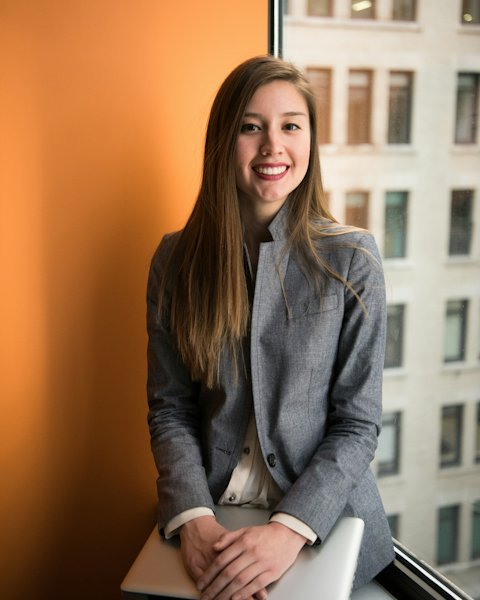
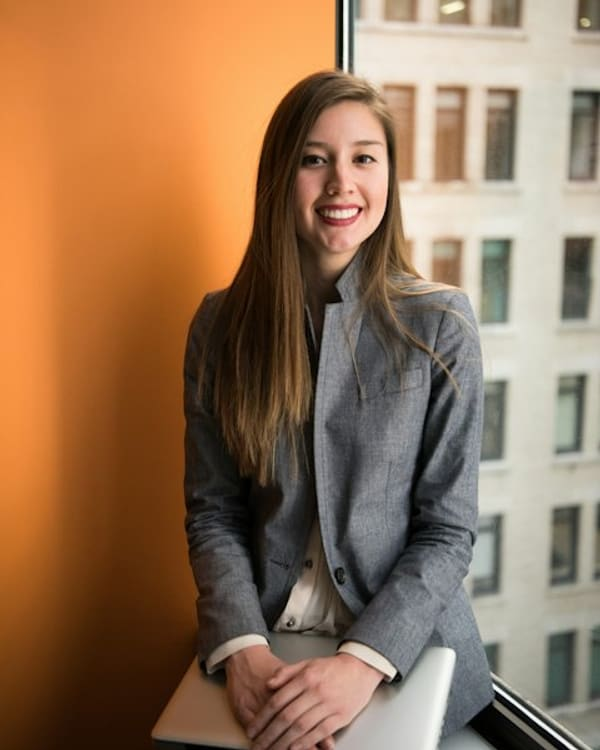
Impor 100 gambar katalog asli; tiap bagian pakai resep berbeda
Zip img/ + uploads/ dari hosting dicocokkan dengan ekspor katalog:
seluruh 100 gambar resep ketemu, termasuk keempat belas terlaris.
Diimpor ke landing/img pada 600x750 q78 mozjpeg, total 4,48 MB
(rata-rata 46 KB). Lima puluh file lain di zip — 32 avatar/tes dari
uploads dan 18 stok lama dari img — sengaja tidak diimpor, jadi tidak
ada foto profil member yang masuk repo.

RECIPES kini memuat seluruh katalog (100 entri) dengan path gambar
asli, ditambah indeks byId. Tiap bagian memakai resep yang berbeda,
39 resep dipakai tanpa satu pun berulang antar bagian:

  galeri    14 resep terlaris, semua kini berfoto
  demo      5 resep lain
  audiens   8 persona, Pasangan dan Ibu rumah tangga kembali karena
            kategori Couple dan Keluarga sudah ada gambarnya
  dinding   9 resep lain
  kolase    3 resep lain

Foto headshot latar gelap dari zip lama akhirnya cocok dengan
"Potret Studio Sinematik Gelap" (dibandingkan visual dengan tiga
kandidat lain). Foto itu dipakai untuk alur demo rb2 -> ra2 dan
ditambahkan sebagai pasangan keenam di hero.

Marquee memakai judul resep asli. Lima belas gambar stok seed lama
yang tidak lagi dirujuk dihapus.

Foto kartu testimoni tetap memakai gambar stok: memasangkan wajah
orang sungguhan dengan nama karangan tidak pantas, bahkan di mockup.

Claude-Session: https://claude.ai/code/session_016iduSmscDGBsGnSTrf83fx

diff --git a/landing/mockup.html b/landing/mockup.html
@@ -598,22 +598,22 @@ footer{background:var(--ink);color:#A9B4CF;font-size:12px;padding:22px 20px 28px
         <span class="island" aria-hidden="true"><i class="cam"></i></span>
         <div class="scene on" data-scene="0">
           <div class="app-h">Paling laris</div>
-          <div class="rcard active" style="position:relative"><img src="img/ra3.jpg" alt=""><div>Potret Sinematik Motion Blur Kota<small><b>★</b> Jalan-jalan</small></div><span class="cp">Salin</span><span class="tap" style="right:6px;top:6px"></span></div>
-          <div class="rcard"><img src="img/ra6.jpg" alt=""><div>Potret Fisheye Sudut Atas<small><b>★</b> Profesional</small></div><span class="cp">Salin</span></div>
-          <div class="rcard"><img src="img/ra5.jpg" alt=""><div>Mini Chibi Gemas di Telapak Tangan<small><b>★</b> Entertainment</small></div><span class="cp">Salin</span></div>
-          <div class="rcard"><img src="img/ra4.jpg" alt=""><div>Potret Gaya 1985<small><b>★</b> Foto Jadul</small></div><span class="cp">Salin</span></div>
-          <div class="rcard"><img src="img/ra1.jpg" alt=""><div>Foto Scrapbook Chibi 3D Gemas<small><b>★</b> Entertainment</small></div><span class="cp">Salin</span></div>
+          <div class="rcard active" style="position:relative"><img src="img/9e64523b9aa07e1a.jpg" alt=""><div>Potret Studio Sinematik Gelap<small>Profesional</small></div><span class="cp">Salin</span><span class="tap" style="right:6px;top:6px"></span></div>
+          <div class="rcard"><img src="img/8c3b666b3d257c3d.jpg" alt=""><div>Foto Pasangan Sinematik Film 35mm<small>Couple</small></div><span class="cp">Salin</span></div>
+          <div class="rcard"><img src="img/p25.jpg" alt=""><div>Doodle Sketsa Lucu<small>Kartun & Ilustrasi</small></div><span class="cp">Salin</span></div>
+          <div class="rcard"><img src="img/df1e914edf146ea8.jpg" alt=""><div>Potret Retro Jakarta Era 80-an<small>Foto Jadul</small></div><span class="cp">Salin</span></div>
+          <div class="rcard"><img src="img/p45.jpg" alt=""><div>Senja di Peron Stasiun<small>Jalan-jalan</small></div><span class="cp">Salin</span></div>
           <span class="copied"><svg class="ico" style="width:13px;height:13px"><use href="#i-check"/></svg>Resep tersalin</span>
         </div>
         <div class="scene" data-scene="1">
           <div class="chat-top"><i></i>Gemini / ChatGPT</div>
-          <div class="bub me"><img src="img/rb3.jpg" alt=""></div>
-          <div class="bub me mono">Turn my uploaded photo into a cinematic city street portrait at golden hour with motion-blurred traffic. Keep my face exactly the same…</div>
+          <div class="bub me"><img src="img/rb2.jpg" alt=""></div>
+          <div class="bub me mono">Turn my uploaded photo into a dark cinematic studio portrait with one dramatic key light. Keep my face exactly the same…</div>
           <div class="bub ai"><span class="typing"><i></i><i></i><i></i></span></div>
         </div>
         <div class="scene" data-scene="2">
           <div class="chat-top"><i></i>Gemini / ChatGPT</div>
-          <div class="result"><img src="img/ra3.jpg" alt="Contoh hasil potret sinematik motion blur kota"><span class="spark"></span></div>
+          <div class="result"><img src="img/ra2.jpg" alt="Contoh hasil potret studio sinematik gelap"><span class="spark"></span></div>
           <div class="saved"><span>Simpan</span><span>Bagikan</span></div>
         </div>
       </div>
@@ -801,13 +801,12 @@ footer{background:var(--ink);color:#A9B4CF;font-size:12px;padding:22px 20px 28px
     <span class="glass g4" aria-hidden="true"><svg viewBox="0 0 24 24"><use href="#g-photo-plus"/></svg></span>
     <span class="eyebrow" style="color:var(--sun)">Tunggu apa lagi</span>
     <h2>Fotomu berikutnya bisa jadi foto terbaikmu.</h2>
-    <div class="collage"><img src="img/ra4.jpg" alt="Hasil resep: potret film retro"><img src="img/ra6.jpg" alt="Hasil resep: potret streetwear latar merah"><img src="img/ra3.jpg" alt="Hasil resep: jalanan kota golden hour"></div>
+    <div class="collage"><img src="img/1743d9195b3e3bad.jpg" alt="Hasil resep Potret Sinematik Noir Korek Api"><img src="img/50ab0fd2a6efb6dd.jpg" alt="Hasil resep Foto Anggun di Akuarium Bawah Laut"><img src="img/p58.jpg" alt="Hasil resep Prajurit Steampunk Selfie"></div>
     <button class="btn btn-main btn-block" data-buy="premium">Ambil Premium Sekarang</button>
     <p class="honest"><svg class="ico"><use href="#i-info"/></svg>Resep prompt siap tempel untuk Gemini/ChatGPT</p>
   </section>
   <footer>© 2026 ResepFoto<br>ResepFoto dirancang untuk melengkapi workflow kreatif bersama berbagai platform AI populer, termasuk Gemini™ dan ChatGPT™. Seluruh merek dagang merupakan milik pemiliknya masing-masing.</footer>
 </div>
-
 
 <!-- checkout -->
 <div class="scrim" id="scrim" hidden></div>
@@ -876,24 +875,123 @@ const EXAMPLES = [
   {label: "Fisheye", title: "Potret Fisheye Sudut Atas", sub: "Foto di gunung → potret studio fisheye", before: "img/rb6.jpg", after: "img/ra6.jpg"},
   {label: "Mini Chibi", title: "Mini Chibi Gemas di Telapak Tangan", sub: "Selfie di kamar → figur mini di telapak tangan", before: "img/rb5.jpg", after: "img/ra5.jpg"},
   {label: "Gaya 1985", title: "Potret Gaya 1985", sub: "Selfie di meja kerja → potret film jadul", before: "img/rb4.jpg", after: "img/ra4.jpg"},
-  {label: "Scrapbook", title: "Foto Scrapbook Chibi 3D Gemas", sub: "Foto berdiri → satu lembar scrapbook chibi", before: "img/rb1.jpg", after: "img/ra1.jpg"}
+  {label: "Scrapbook", title: "Foto Scrapbook Chibi 3D Gemas", sub: "Foto berdiri → satu lembar scrapbook chibi", before: "img/rb1.jpg", after: "img/ra1.jpg"},
+  {label: "Studio Gelap", title: "Potret Studio Sinematik Gelap", sub: "Foto duduk biasa → potret studio dramatis", before: "img/rb2.jpg", after: "img/ra2.jpg"}
 ];
 const RECIPES = [
-  ["rtlhqfm5b68","Jalan-jalan","Potret Sinematik Motion Blur Kota","img/ra3.jpg"],
-  ["rtlhx4154b6","Profesional","Potret Fisheye Sudut Atas","img/ra6.jpg"],
-  ["rtlhwnq0386","Entertainment","Mini Chibi Gemas di Telapak Tangan","img/ra5.jpg"],
-  ["p21","Foto Jadul","Potret Gaya 1985","img/ra4.jpg"],
-  ["rtlhwlo6ac4","Entertainment","Foto Scrapbook Chibi 3D Gemas","img/ra1.jpg"],
   ["p16","Profesional","Potret Pebisnis Modern","img/p16.jpg"],
-  ["p17","Tren Viral","Potret Neon Sinematik","img/p17.jpg"]
+  ["p17","Tren Viral","Potret Neon Sinematik","img/p17.jpg"],
+  ["rtlhqfm5b68","Jalan-jalan","Potret Sinematik Motion Blur Kota","img/77b7c14277850ca3.jpg"],
+  ["rtlhql02003","Profesional","Potret Hitam Putih Dramatis","img/dc4ceb130cd4faf0.jpg"],
+  ["rtlhwfsf0fd","Entertainment","OOTD Bersama Mini Me","img/a989967fcdae0f63.jpg"],
+  ["rtlhwlo6ac4","Entertainment","Foto Scrapbook Chibi 3D Gemas","img/41ce0bd7c7d56af9.jpg"],
+  ["rtlhwnq0386","Entertainment","Mini Chibi Gemas di Telapak Tangan","img/a6da59b97742d195.jpg"],
+  ["rtlhwqx0237","Entertainment","Foto Unik Mini Me Chibi","img/33b1a4e684214d52.jpg"],
+  ["rtlhwub484d","Entertainment","Poster Zodiak Chibi Karakter Lucu","img/d761fcd63d08949d.jpg"],
+  ["rtlhwx8cb88","Entertainment","Dunia Kartun Tiny Planet","img/23bc9ae4209a057d.jpg"],
+  ["rtlhx0cf87b","Entertainment","Cosplay Polisi Kelinci Fantasi","img/ae6121ff516ff038.jpg"],
+  ["rtlhx4154b6","Profesional","Potret Fisheye Sudut Atas","img/31e6f543b4ef4be8.jpg"],
+  ["rtlhx9g6773","Keluarga","Foto Studio Ayah & Anak Monokrom","img/a5f03d013e7a01f7.jpg"],
+  ["rtlhxfg41e2","Jalan-jalan","Candid Sinematik Golden Hour","img/e09183b6be3b2db0.jpg"],
+  ["rtlhxhv6170","Jalan-jalan","Potret Sinematik Jalanan Kota","img/41426d67aad46379.jpg"],
+  ["rtlhxku1b73","Entertainment","Selfie Bersama Karakter Mainan 3D","img/555773730623622a.jpg"],
+  ["rtlhxp6cc8c","Profesional","Potret Studio Editorial Hijab","img/931935911be41516.jpg"],
+  ["rtlhxst1c7e","Profesional","Potret Editorial Majalah Mewah","img/942a7d4c1c4d417e.jpg"],
+  ["rtlhxxc2199","Profesional","Potret Editorial Blazer Mewah","img/47001368a27e54ca.jpg"],
+  ["rtlhy2z7267","Profesional","Potret Studio Sinematik Gelap","img/9e64523b9aa07e1a.jpg"],
+  ["rtlhy6l10d7","Entertainment","Foto POV Intip Tas Resleting Berdua","img/c47f63ea6d3080bc.jpg"],
+  ["rtlhybg6396","Jalan-jalan","Gaya Santai Jalanan Tokyo","img/02fde47ad65cd527.jpg"],
+  ["rtlhygk1305","Profesional","Potret Estetik Kain Linen","img/837050fd6113af3d.jpg"],
+  ["p21","Foto Jadul","Potret Gaya 1985","img/p21.jpg"],
+  ["p22","Editorial","Potret Studio Ivory","img/p22.jpg"],
+  ["p23","Editorial","Lift Mewah Ala 90-an","img/p23.jpg"],
+  ["p24","Tren Viral","Selfie Spider-Man","img/p24.jpg"],
+  ["p25","Kartun & Ilustrasi","Doodle Sketsa Lucu","img/p25.jpg"],
+  ["p26","Tren Viral","Candid Malam Tertangkap Kamera","img/p26.jpg"],
+  ["p27","Tren Viral","Singgasana Shinobi Gelap","img/p27.jpg"],
+  ["p28","Momen Spesial","Layar MacBook Berdua","img/p28.jpg"],
+  ["p29","Tren Viral","Mirror Selfie Kamera Digital","img/p29.jpg"],
+  ["p30","Editorial","Sorot Cahaya Hitam Putih","img/p30.jpg"],
+  ["p31","Editorial","Potret Sweater Krem","img/p31.jpg"],
+  ["p32","Editorial","Sampul Majalah Gelap","img/p32.jpg"],
+  ["p33","Tren Viral","Photobooth Spider-Man","img/p33.jpg"],
+  ["p34","Profesional","Iklan Produk Jaring Laba-laba","img/p34.jpg"],
+  ["p35","Foto Jadul","Kamera Sekali Pakai 90-an","img/p35.jpg"],
+  ["p36","Tren Viral","Selfie Cermin Cembung Minimarket","img/p36.jpg"],
+  ["p37","Foto Jadul","Jersey Bola di Pesta Rumah","img/p37.jpg"],
+  ["p38","Momen Spesial","Santai di Kursi Bioskop","img/p38.jpg"],
+  ["p39","Jalan-jalan","Ladang Bunga Kuning","img/p39.jpg"],
+  ["p40","Editorial","Studio Oranye Gelap","img/p40.jpg"],
+  ["p41","Editorial","Studio Beige Tenang","img/p41.jpg"],
+  ["p42","Editorial","Studio Hijau Santai","img/p42.jpg"],
+  ["p43","Editorial","Kontras Merah Tajam","img/p43.jpg"],
+  ["p44","Gaya Jalanan","Depan Kulkas Minimarket","img/p44.jpg"],
+  ["p45","Jalan-jalan","Senja di Peron Stasiun","img/p45.jpg"],
+  ["p46","Gaya Jalanan","Jalan Kota Sehabis Hujan","img/p46.jpg"],
+  ["p47","Editorial","Kolase Tiga Panel","img/p47.jpg"],
+  ["p48","Editorial","Template Potret Sinematik","img/p48.jpg"],
+  ["p49","Editorial","Profil Oranye Bergerak","img/p49.jpg"],
+  ["p50","Gaya Jalanan","Lari Sore di Kota","img/p50.jpg"],
+  ["p51","Editorial","Mengapung di Air Bunga","img/p51.jpg"],
+  ["p52","Jalan-jalan","Gunung dan Sungai Ala Vogue","img/p52.jpg"],
+  ["p53","Jalan-jalan","Papan Loncat di Atas Laut","img/p53.jpg"],
+  ["p54","Editorial","Di Balik Kaca Akuarium","img/p54.jpg"],
+  ["p55","Kartun & Ilustrasi","Ilustrasi Buku Anak","img/p55.jpg"],
+  ["p56","Kartun & Ilustrasi","Karakter Piksel Everskies","img/p56.jpg"],
+  ["p57","Kartun & Ilustrasi","Kartun Sketsa Charlie & Lola","img/p57.jpg"],
+  ["p58","Tren Viral","Prajurit Steampunk Selfie","img/p58.jpg"],
+  ["p59","Gaya Jalanan","Diam di Tengah Zebra Cross","img/p59.jpg"],
+  ["p60","Jalan-jalan","Negeri di Atas Awan","img/p60.jpg"],
+  ["p61","Kartun & Ilustrasi","Ditarik Doodle Kecil","img/p61.jpg"],
+  ["p62","Kartun & Ilustrasi","Jalan Bareng Versi Sketsa","img/p62.jpg"],
+  ["p63","Editorial","Poster Fashion Sinematik","img/p63.jpg"],
+  ["p64","Kartun & Ilustrasi","Dikejar Doodle","img/p64.jpg"],
+  ["p65","Editorial","Taksi Kuning Malam Hari","img/p65.jpg"],
+  ["p66","Gaya Jalanan","Senja di Rooftop Parkir","img/p66.jpg"],
+  ["rtlhyuo71b3","Profesional","Foto Editorial Musim Semi Anak","img/6991eabc240f077e.jpg"],
+  ["rtlhyzmfbab","Jalan-jalan","OOTD Pria Sinematik High-Angle","img/174d4627ccf7acdc.jpg"],
+  ["rtlhz3r3787","Jalan-jalan","Kolase Editorial Pasangan Jepang","img/ce188dcb0b7c28c6.jpg"],
+  ["rtlhz6n2e40","Keluarga","Foto Keluarga Kejar-kejaran Lucu","img/dbbeedb995fe89e5.jpg"],
+  ["rtlhz9x669f","Keluarga","Foto Prewed Vintage di Padang Rumput","img/4ff8b7296d5208f1.jpg"],
+  ["rtlhzekd64d","Couple","Foto Pasangan Sinematik Film 35mm","img/8c3b666b3d257c3d.jpg"],
+  ["rtlhzgyfb75","Couple","Film Strip Estetik Berdua","img/fdcde6c7306fbd4d.jpg"],
+  ["rtlhzjgcd10","Couple","Foto Pasangan Sinematik 35mm","img/3c32088fc6495914.jpg"],
+  ["rtlhzkx2abf","Couple","Candid Romantis Sinematik 35mm","img/0751bc20430da6c7.jpg"],
+  ["rtlhznw25f6","Couple","Foto Pasangan Sinematik 35mm","img/eda8bab27405a82b.jpg"],
+  ["rtlhzp2cc23","Couple","Strip Film Jadul Couple","img/97a518b61c174582.jpg"],
+  ["rtlhzs47c09","Couple","Foto Sinematik Pasangan Indie Film","img/9f3f6298ef681e38.jpg"],
+  ["rtlhzvp67db","Couple","Prewed Editorial Urban Keren","img/e755549f861a8469.jpg"],
+  ["rtli00l0ac9","Jalan-jalan","Sorot Sinematik Pameran Seni","img/67bd33e340a8ce2e.jpg"],
+  ["rtli0bg957b","Profesional","Foto Editorial Jas Burgundy Elegan","img/9b8fbd21dbf21c2f.jpg"],
+  ["rtli0gid54e","Profesional","Potret Motion Blur Sinematik","img/d54807e11ccdbec0.jpg"],
+  ["rtli0km2d6e","Foto Jadul","Gaya Fisheye 90an Kamera Retro","img/292abb23da6cd750.jpg"],
+  ["rtli0p483d7","Foto Jadul","Potret Retro Jakarta Era 80-an","img/df1e914edf146ea8.jpg"],
+  ["rtli0qu6778","Foto Jadul","Foto Keren Vintage 1980-an","img/f68cef53482c26d4.jpg"],
+  ["rtli0t24a3d","Foto Jadul","Gaya Retro 80an di Warung Kopi","img/44b0e8d893f7365e.jpg"],
+  ["rtli0ukacf7","Profesional","Malam Bintang & Api Unggun","img/df668492bcf123f3.jpg"],
+  ["rtli0z55026","Tren Viral","Action Figure Kustom di Meja Kerja","img/006403e96d92933f.jpg"],
+  ["rtli12x0839","Entertainment","Ngopi Bareng Bintang Sepak Bola","img/f9de06f4b0731847.jpg"],
+  ["rtli13ob41a","Profesional","Potret Hitam Putih Sinematik","img/dea0898a21ad8417.jpg"],
+  ["rtli161edbf","Jalan-jalan","Selfie Fisheye Puncak Gunung","img/720bf73c3613f0ba.jpg"],
+  ["rtli1688c19","Profesional","Potret Sinematik Noir Korek Api","img/1743d9195b3e3bad.jpg"],
+  ["rtli17r707b","Profesional","Potret Editorial Gelap Dramatis","img/277b23e45aa3aeda.jpg"],
+  ["rtli19y2f54","Jalan-jalan","Foto Anggun di Akuarium Bawah Laut","img/50ab0fd2a6efb6dd.jpg"],
+  ["rtli1a1e133","Entertainment","Latar Kartun Dunia Game 3D","img/ca8f2e4909404e86.jpg"],
+  ["rtli1caaa70","Editorial","Putri Salju Fantasi Hijab","img/a3add10c2e28860f.jpg"],
+  ["rtli1cr5cd3","Entertainment","Foto Doodle Lucu Penuh Warna","img/99f9dd76d71df43a.jpg"]
 ].map(([id, cat, title, img]) => ({id, cat, title, img}));
+const byId = Object.fromEntries(RECIPES.map(r => [r.id, r]));
+const BESTSELLERS = ["rtlhqfm5b68", "rtlhwlo6ac4", "rtlhwnq0386", "rtlhx4154b6", "rtlhxp6cc8c", "p21", "p23", "p24", "p27", "p29", "p33", "p36", "p39", "p65"].map(id => byId[id]);
+const WALL = ["p51", "rtli1caaa70", "p17", "rtlhwub484d", "p56", "p52", "rtlhzgyfb75", "p37", "p66"];
 const AUDIENCE = [
-  {k: "Content creator", rec: "rtlhwlo6ac4", text: "Feed penuh gaya, tiap hari beda."},
-  {k: "Suka jalan-jalan", rec: "rtlhqfm5b68", text: "Suasana kota sinematik tanpa ke mana-mana."},
-  {k: "Pecinta nostalgia", rec: "p21", text: "Balik ke nuansa foto era 80-an."},
-  {k: "Pebisnis", rec: "p16", text: "Foto profil founder untuk website & proposal."},
-  {k: "Anak muda", rec: "rtlhwnq0386", text: "Versi mini dirimu yang gemas buat dibagikan."},
-  {k: "Suka gaya bebas", rec: "rtlhx4154b6", text: "Potret sudut atas yang bikin nengok dua kali."}
+  {k: "Mahasiswa", rec: "p44", text: "Gaya anak kampus yang gampang ditiru."},
+  {k: "Pencari kerja", rec: "rtlhxxc2199", text: "Potret blazer rapi untuk CV dan LinkedIn."},
+  {k: "Ibu rumah tangga", rec: "rtlhz6n2e40", text: "Momen keluarga hangat untuk dipajang."},
+  {k: "Pasangan", rec: "rtlhzvp67db", text: "Prewedding editorial, tanpa biaya jutaan."},
+  {k: "Pecinta nostalgia", rec: "rtli0qu6778", text: "Nuansa foto era 80-an yang bikin kangen."},
+  {k: "Content creator", rec: "rtli1cr5cd3", text: "Feed warna-warni, tiap hari beda gaya."},
+  {k: "Pebisnis", rec: "p16", text: "Foto founder untuk website dan proposal."},
+  {k: "Suka jalan-jalan", rec: "p60", text: "Negeri di atas awan dari ruang tamu."}
 ];
 
 /* ---- topbar shadow + sticky buy bar ---- */
@@ -948,7 +1046,7 @@ EXAMPLES.forEach(e => { new Image().src = e.before; new Image().src = e.after; }
 showExample(0); autoplay();
 
 /* ---- marquee ---- */
-const words = ["Potret Pebisnis Modern", "Potret Neon Sinematik", "OOTD Bersama Mini Me", "Gaya Santai Jalanan Tokyo", "Potret Gaya 1985", "Potret Studio Ivory", "Doodle Sketsa Lucu", "Layar MacBook Berdua", "Depan Kulkas Minimarket", "Film Strip Estetik Berdua", "Foto Unik Mini Me Chibi", "Dunia Kartun Tiny Planet"];
+const words = ["Potret Pebisnis Modern", "Potret Neon Sinematik", "OOTD Bersama Mini Me", "Foto Unik Mini Me Chibi", "Dunia Kartun Tiny Planet", "Potret Gaya 1985", "Potret Studio Ivory", "Lift Mewah Ala 90-an", "Selfie Spider-Man", "Doodle Sketsa Lucu", "Singgasana Shinobi Gelap", "Layar MacBook Berdua", "Sorot Cahaya Hitam Putih", "Potret Sweater Krem"];
 $("#marquee").innerHTML = [0,1].map(() => `<span>${words.map(w => `<span>${w}</span>`).join("")}</span>`).join("");
 
 /* ---- problems ---- */
@@ -981,22 +1079,6 @@ new IntersectionObserver(([e]) => {
 
 /* ---- gallery ---- */
 // resep bertanda "paling laris" (popular) di app — urut sesuai yang paling sering dipakai
-const BESTSELLERS = [
-  ["rtlhqfm5b68","Jalan-jalan","Potret Sinematik Motion Blur Kota","img/ra3.jpg"],
-  ["rtlhwlo6ac4","Entertainment","Foto Scrapbook Chibi 3D Gemas","img/ra1.jpg"],
-  ["rtlhwnq0386","Entertainment","Mini Chibi Gemas di Telapak Tangan","img/ra5.jpg"],
-  ["rtlhx4154b6","Profesional","Potret Fisheye Sudut Atas","img/ra6.jpg"],
-  ["p21","Foto Jadul","Potret Gaya 1985","img/ra4.jpg"],
-  ["rtlhxp6cc8c","Profesional","Potret Studio Editorial Hijab",""],
-  ["p23","Editorial","Lift Mewah Ala 90-an",""],
-  ["p24","Tren Viral","Selfie Spider-Man",""],
-  ["p27","Tren Viral","Singgasana Shinobi Gelap",""],
-  ["p29","Tren Viral","Mirror Selfie Kamera Digital",""],
-  ["p33","Tren Viral","Photobooth Spider-Man",""],
-  ["p36","Tren Viral","Selfie Cermin Cembung Minimarket",""],
-  ["p39","Jalan-jalan","Ladang Bunga Kuning",""],
-  ["p65","Editorial","Taksi Kuning Malam Hari",""]
-].map(([id, cat, title, img]) => ({id, cat, title, img}));
 function renderShots(){
   // semua resep bertanda "paling laris"; yang fotonya belum ada tampil sebagai kartu bertint
   const TINT = {
@@ -1096,7 +1178,7 @@ if (matchMedia("(pointer:fine)").matches && !reduce){
 }
 
 /* ---- results wall ---- */
-$("#wall").innerHTML = [1,2,3,4,5,6].map(i => `<img loading="lazy" src="img/rs${i}.jpg" alt="Hasil asli dari resep ResepFoto">`).join("") +
+$("#wall").innerHTML = WALL.map(id => `<img loading="lazy" src="${byId[id].img}" alt="Hasil resep ${byId[id].title}">`).join("") +
   `<div class="send"><svg class="ico" style="color:var(--blue)"><use href="#i-hand"/></svg>Sudah coba? Kirim hasilmu ke kami, fotomu bisa tampil di sini.</div>`;
 
 /* ---- checkout ---- */
